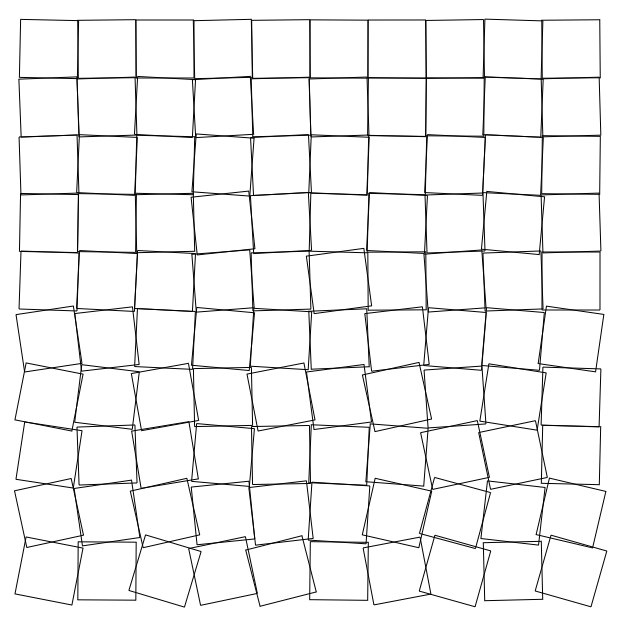
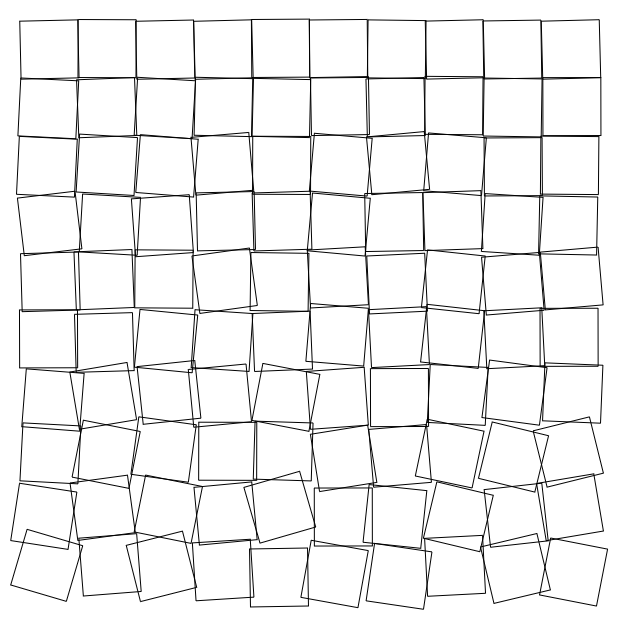
10: add x/y displacement

diff --git a/10-squares-displaced/sketch.js b/10-squares-displaced/sketch.js
@@ -28,8 +28,11 @@ const sketch = ({ canvas, context, width, height }) => {
       for (let j = 0; j < numCols; j += 1) {
         context.save();
         context.translate(j * widthCell, i * heightCell);
-        context.translate(widthCell / 2, heightCell / 2);
         const off = (i + 1) / numRows;
+        context.translate(
+          widthCell / 2 + randomSign(Math.random() * (widthCell / 8) * off),
+          heightCell / 2 + randomSign(Math.random() * (widthCell / 8) * off)
+        );
         context.rotate(randomSign(Math.random() * (Math.PI / 10)) * off);
         context.translate(-widthCell / 2, -heightCell / 2);
         context.rect(0, 0, widthCell, heightCell);
